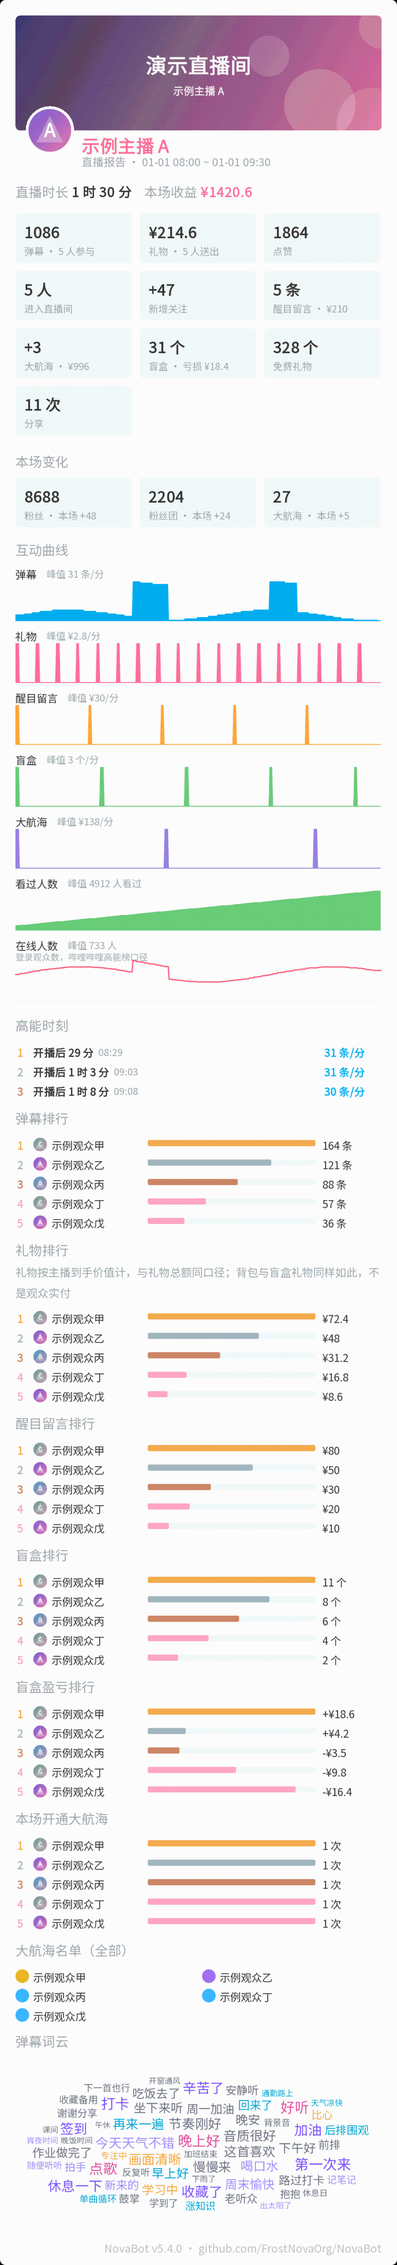
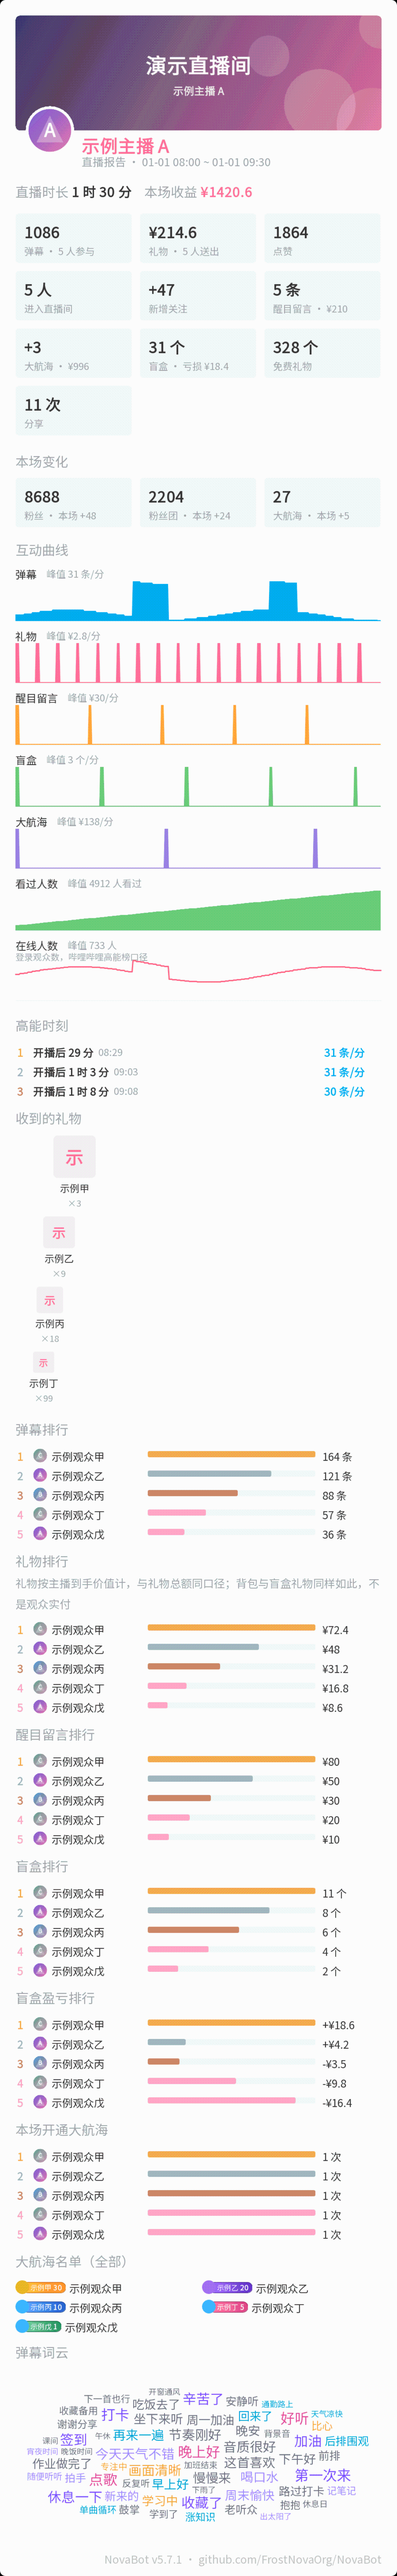
README 首屏先说是什么；报告示意图补上收到的礼物与带粉丝牌的大航海名单；写明用安装脚本升级会清空 plugins-lib

Changed region(s): [[0.0308, 0.0, 0.9558, 0.9977], [0.8942, 0.2494, 0.925, 0.3118], [0.9867, 0.9977, 1.0, 1.0]]

diff --git a/plugins/nova-report/src/test/java/org/frostnova/nova/report/demo/DemoAssets.java b/plugins/nova-report/src/test/java/org/frostnova/nova/report/demo/DemoAssets.java
@@ -5,6 +5,7 @@ import org.frostnova.nova.bilibili.BilibiliPlatform;
 import org.frostnova.nova.bilibili.config.NovaBilibiliProperties;
 import org.frostnova.nova.bilibili.model.BilibiliLiveMetric;
 import org.frostnova.nova.bilibili.model.BilibiliLiveReportOptions;
+import org.frostnova.nova.bilibili.model.GuardMedal;
 import org.frostnova.nova.bilibili.model.GuardMember;
 import org.frostnova.nova.bilibili.util.BilibiliApiUtil;
 import org.frostnova.nova.core.config.NovaCoreProperties;
@@ -183,8 +184,9 @@ public final class DemoAssets {
 
         NovaCoreProperties coreProperties = new NovaCoreProperties();
         coreProperties.getPaint().getFonts().add("内置");
+        String version = projectVersion(repoRoot());
         Properties buildInfo = new Properties();
-        buildInfo.setProperty("version", "5.4.0");
+        buildInfo.setProperty("version", version);
         buildInfo.setProperty("group", "org.frostnova.nova");
         buildInfo.setProperty("artifact", "nova-core");
         buildInfo.setProperty("name", "NovaBot");
@@ -231,6 +233,7 @@ public final class DemoAssets {
             throw new IOException("report top PNG " + topBytes + " bytes exceeds " + REPORT_TOP_MAX_BYTES);
         }
         System.out.println("rendered-by " + RENDER_VIA);
+        System.out.println("footer-version " + version);
         return new Rendered(reportPng, topPng, compact.getWidth(), compact.getHeight(), bytes, RENDER_VIA,
                 painter, topSlice.getWidth(), topSlice.getHeight(), topBytes);
     }
@@ -268,6 +271,29 @@ public final class DemoAssets {
         } catch (NoSuchAlgorithmException e) {
             throw new IllegalStateException(e);
         }
+    }
+
+    /**
+     * 页脚跟工程根 pom 里的产品版本走，不写死。
+     * 父工程的 version 写在产品构件名之前，从产品构件名往后取。
+     */
+    static String projectVersion(Path root) throws IOException {
+        String xml = Files.readString(root.resolve("pom.xml"), StandardCharsets.UTF_8);
+        String marker = "<artifactId>nova-parent</artifactId>";
+        int at = xml.indexOf(marker);
+        if (at < 0) {
+            throw new IOException("pom.xml has no nova-parent");
+        }
+        int open = xml.indexOf("<version>", at);
+        int close = open < 0 ? -1 : xml.indexOf("</version>", open);
+        if (open < 0 || close < 0) {
+            throw new IOException("pom.xml has no version after nova-parent");
+        }
+        String version = xml.substring(open + "<version>".length(), close).trim();
+        if (version.isEmpty() || version.indexOf('<') >= 0 || version.indexOf('$') >= 0) {
+            throw new IOException("pom.xml version is not a literal");
+        }
+        return version;
     }
 
     static Path repoRoot() {
@@ -428,6 +454,11 @@ public final class DemoAssets {
         data.setLiveMetric(platform, STREAMER_UID, BilibiliLiveMetric.FANS_MEDAL_AT_START, 2_180);
         data.setLiveMetric(platform, STREAMER_UID, BilibiliLiveMetric.GUARD_AT_START, 22);
 
+        data.recordLiveGift(platform, STREAMER_UID, 900_001L, "示例甲", 888, 3, "");
+        data.recordLiveGift(platform, STREAMER_UID, 900_002L, "示例乙", 66, 9, "");
+        data.recordLiveGift(platform, STREAMER_UID, 900_003L, "示例丙", 6, 18, "");
+        data.recordLiveGift(platform, STREAMER_UID, 900_004L, "示例丁", 0, 99, "");
+
         double[] danmu = {164, 121, 88, 57, 36};
         double[] gift = {72.4, 48.0, 31.2, 16.8, 8.6};
         double[] superChat = {80, 50, 30, 20, 10};
@@ -558,11 +589,20 @@ public final class DemoAssets {
         @Override
         protected Optional<List<GuardMember>> guardList(Long roomId, Long uid) {
             return Optional.of(List.of(
-                    new GuardMember(VIEWER_UIDS[0], VIEWER_NAMES[0], 1, 2800),
-                    new GuardMember(VIEWER_UIDS[1], VIEWER_NAMES[1], 2, 1900),
-                    new GuardMember(VIEWER_UIDS[2], VIEWER_NAMES[2], 3, 1100),
-                    new GuardMember(VIEWER_UIDS[3], VIEWER_NAMES[3], 3, 800),
-                    new GuardMember(VIEWER_UIDS[4], VIEWER_NAMES[4], 3, 500)));
+                    new GuardMember(VIEWER_UIDS[0], VIEWER_NAMES[0], 1, 2800,
+                            demoMedal("示例甲", 30, new Color(255, 196, 64), new Color(255, 140, 40), new Color(180, 90, 0))),
+                    new GuardMember(VIEWER_UIDS[1], VIEWER_NAMES[1], 2, 1900,
+                            demoMedal("示例乙", 20, new Color(168, 112, 255), new Color(96, 48, 200), new Color(64, 24, 140))),
+                    new GuardMember(VIEWER_UIDS[2], VIEWER_NAMES[2], 3, 1100,
+                            demoMedal("示例丙", 10, new Color(96, 176, 255), new Color(32, 96, 210), new Color(16, 48, 140))),
+                    new GuardMember(VIEWER_UIDS[3], VIEWER_NAMES[3], 3, 800,
+                            demoMedal("示例丁", 5, new Color(255, 128, 176), new Color(220, 64, 128), new Color(150, 24, 80))),
+                    new GuardMember(VIEWER_UIDS[4], VIEWER_NAMES[4], 3, 500,
+                            demoMedal("示例戊", 1, new Color(120, 210, 160), new Color(32, 150, 96), new Color(16, 90, 56)))));
+        }
+
+        private static GuardMedal demoMedal(String name, int level, Color start, Color end, Color border) {
+            return new GuardMedal(name, level, true, start, end, border, Color.WHITE, null);
         }
     }
 }

diff --git a/README.md b/README.md
@@ -1,5 +1,11 @@
 # NovaBot
 
+<img src="docs/assets/logo.svg" alt="NovaBot" height="56">
+
+**哔哩哔哩直播与动态推送机器人。** 盯住你关心的 UP 主，开播、下播、发动态时把消息推到 QQ 群或好友；下播后自动生成一张数据报告图；所有配置都在浏览器里完成。
+
+> **NovaBot** watches Bilibili streamers you care about and pushes live-start, live-end and feed updates to QQ groups or friends through an [OneBot](https://onebot.dev/) implementation (e.g. NapCat). It ships with a web console for all configuration and renders a post-stream report image (cover banner, stat cards, interaction curve, leaderboards, danmaku word cloud, gifts received, and a guard roster with fan medals). Chinese-only UI and docs for now.
+
 [![CI](https://github.com/FrostNovaOrg/NovaBot/actions/workflows/ci.yml/badge.svg)](https://github.com/FrostNovaOrg/NovaBot/actions/workflows/ci.yml)
 [![License: AGPL-3.0](https://img.shields.io/badge/license-AGPL--3.0-blue.svg)](LICENSE)
 [![Release](https://img.shields.io/github/v/release/FrostNovaOrg/NovaBot)](https://github.com/FrostNovaOrg/NovaBot/releases)
@@ -12,12 +18,6 @@
 git clone https://github.com/FrostNovaOrg/NovaBot
 cd NovaBot && ./install.sh
 ```
-
-<img src="docs/assets/logo.svg" alt="NovaBot" height="56">
-
-**哔哩哔哩直播与动态推送机器人。** 盯住你关心的 UP 主，开播、下播、发动态时把消息推到 QQ 群或好友；下播后自动生成一张数据报告图；所有配置都在浏览器里完成。
-
-> **NovaBot** watches Bilibili streamers you care about and pushes live-start, live-end and feed updates to QQ groups or friends through an [OneBot](https://onebot.dev/) implementation (e.g. NapCat). It ships with a web console for all configuration and renders a post-stream report image (cover banner, stat cards, interaction curve, leaderboards, danmaku word cloud, gifts received, and a guard roster with fan medals). Chinese-only UI and docs for now.
 
 ```
 哔哩哔哩  ──拉取──▶  NovaBot  ──HTTP──▶  OneBot 实现  ──▶  QQ 群 / 好友
@@ -70,7 +70,7 @@ cd NovaBot && ./install.sh
 | 一个 OneBot 实现 | 推荐 [NapCat](https://github.com/NapNeko/NapCatQQ)，由它登录 QQ 并收发消息 |
 | 一个哔哩哔哩账号 | **建议用小号**，用于读取动态与完整的直播间事件；原因见[安全说明](SECURITY.md) |
 
-NovaBot 自己不登录 QQ，只把消息交给 OneBot 实现去发。先把 NapCat 跑起来并登录好 QQ，再装 NovaBot。
+NovaBot 自己不登录 QQ，只把消息交给 OneBot 实现去发。
 
 ## 快速开始
 
@@ -103,7 +103,7 @@ docker run -d --name novabot --restart unless-stopped -v novabot-data:/app -p 12
 
 ## 适用范围与边界
 
-面向**中小型公会、个人势主播及其运营人员**，用于**自有或已获授权**的直播间数据采集、通知与运营分析，典型规模是一到十几个直播间。
+典型规模是一到十几个直播间，做数据采集、通知与运营分析。
 
 **不做风控对抗**：不伪造浏览器指纹、不伪造观看行为、不实现针对平台反自动化机制的对抗手段。大规模采集场景下不保证账号安全与数据完整性，触发平台限流或风控的后果由使用者承担。连接行为按「礼貌客户端」设计：指数退避、全局连接节流、不高频轮询、遵守平台的限流反馈，这是产品的一部分。强烈不建议用于非法或未经授权的大规模数据监控与爬取，完整表述见 [SECURITY.md](SECURITY.md)。
 
@@ -125,7 +125,7 @@ docker run -d --name novabot --restart unless-stopped -v novabot-data:/app -p 12
 
 ## 插件开发
 
-复制 [templates/nova-example-plugin](templates/nova-example-plugin) 作为起点，构建前先把本仓构件装进本地 Maven 仓（见[模板 README](templates/nova-example-plugin/README.md#依赖来源)）。用 `@NovaComponent` 注册组件、`@EventListener` 监听事件，实现 `NovaEventHandler` 即可作为推送处理器。插件 jar 放进 `plugins/`。第三方依赖不会在运行期下载，要自己放进 `plugins-lib/`。[可监听的事件类型](docs/architecture.md#可监听的事件类型)列出了全部事件。
+复制 [templates/nova-example-plugin](templates/nova-example-plugin) 作为起点，构建前先把本仓构件装进本地 Maven 仓（见[模板 README](templates/nova-example-plugin/README.md#依赖来源)）。用 `@NovaComponent` 注册组件、`@EventListener` 监听事件，实现 `NovaEventHandler` 即可作为推送处理器。插件 jar 放进 `plugins/`。第三方依赖不会在运行期下载，要自己放进 `plugins-lib/`。用安装脚本升级会清空 `plugins-lib/`，自己放的第三方 jar 升级后要重新放。[可监听的事件类型](docs/architecture.md#可监听的事件类型)列出了全部事件。
 
 ## 升级与反馈
 

diff --git a/docs/user-guide.md b/docs/user-guide.md
@@ -763,7 +763,7 @@ novabot:
 
 ### 从本项目的旧版本升级
 
-用 `install.sh` 升级时，脚本会删掉安装目录里的 `lib/` 与 `plugins-lib/`，再把新产物整份拷进去，所以 `NovaBot.jar`、`lib/`、`plugins-lib/` 都换成新的。容器入口每次启动会用镜像里的 `NovaBot.jar` 与 `lib/` 盖掉卷 `/app` 上的同名文件，并按新文件名换内置插件；`plugins-lib/` 只建目录，不从镜像里的 `/opt/starbot/plugins-lib` 铺到卷上，换镜像后卷里的那份不是新的，这一目录要自己按第 3 步换。五个旧名插件，安装脚本和容器都不会删，要自己删；`StarBotCore.jar` 只有 `install.sh` 会删。手工升级则整段照做：
+用 `install.sh` 升级时，脚本会删掉安装目录里的 `lib/` 与 `plugins-lib/`，再把新产物整份拷进去，所以 `NovaBot.jar`、`lib/`、`plugins-lib/` 都换成新的。用安装脚本升级会清空 `plugins-lib/`，自己放的第三方 jar 升级后要重新放。容器入口每次启动会用镜像里的 `NovaBot.jar` 与 `lib/` 盖掉卷 `/app` 上的同名文件，并按新文件名换内置插件；`plugins-lib/` 只建目录，不从镜像里的 `/opt/starbot/plugins-lib` 铺到卷上，换镜像后卷里的那份不是新的，这一目录要自己按第 3 步换。五个旧名插件，安装脚本和容器都不会删，要自己删；`StarBotCore.jar` 只有 `install.sh` 会删。手工升级则整段照做：
 
 1. 停止服务
 2. **备份 `application.yml`、`datasource.json`、`cookies.json`、`cookies.key`**。登录凭据默认加密后仍写在 `cookies.json`，密钥在 `cookies.key`，没有另存一份密文文件。若旁边还有明文迁成加密时留下的 `cookies.json.plain.bak`，一并备份。
